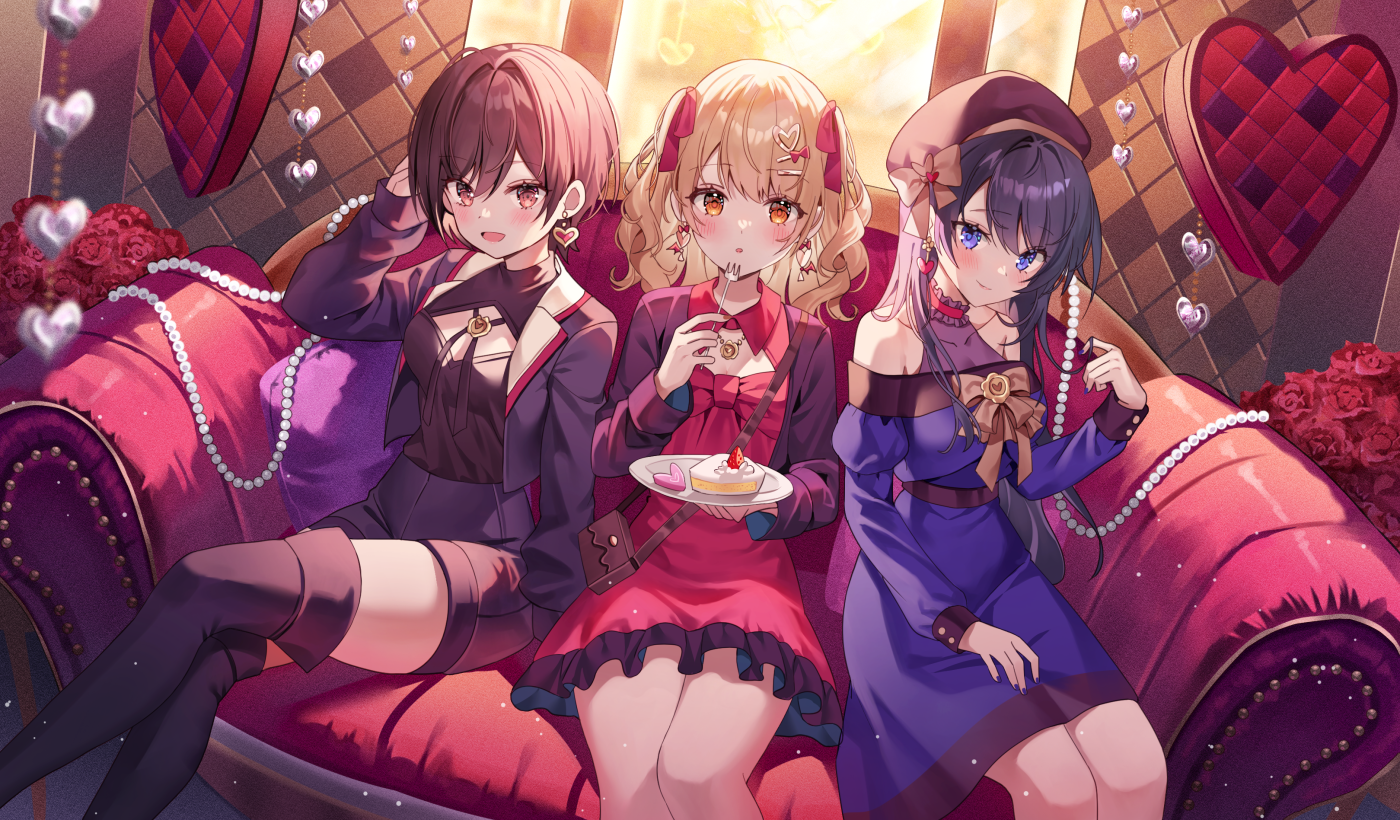
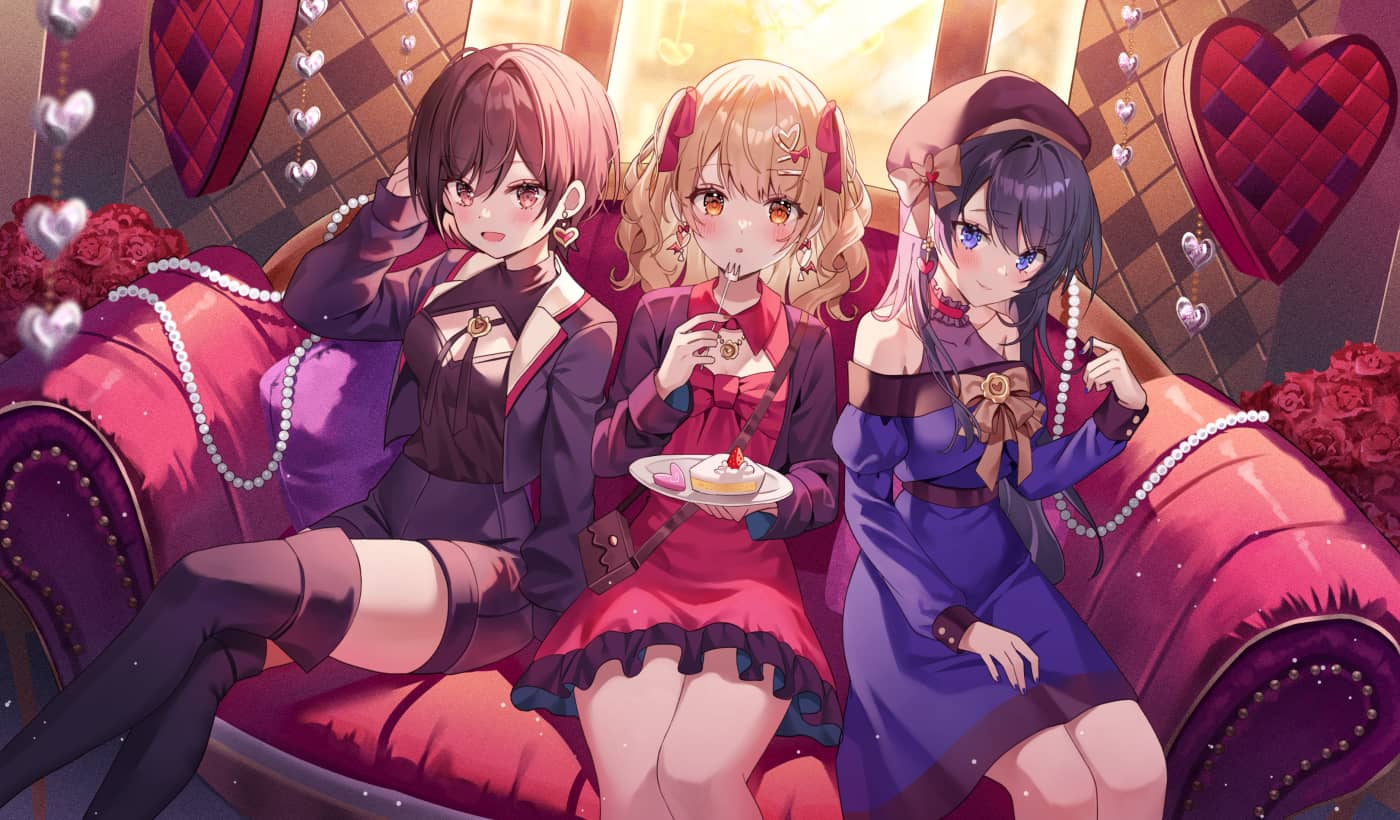
change pic

diff --git a/index.html b/index.html
@@ -87,7 +87,7 @@
 								</article>
 								<article>
 									<span class="image">
-										<img src="images/bg4.jpg" alt="" />
+										<img src="images/bg4.webp" alt="" />
 									</span>
 									<header class="major">
 										<h3><a href="" class="link">服务至上</a></h3>
